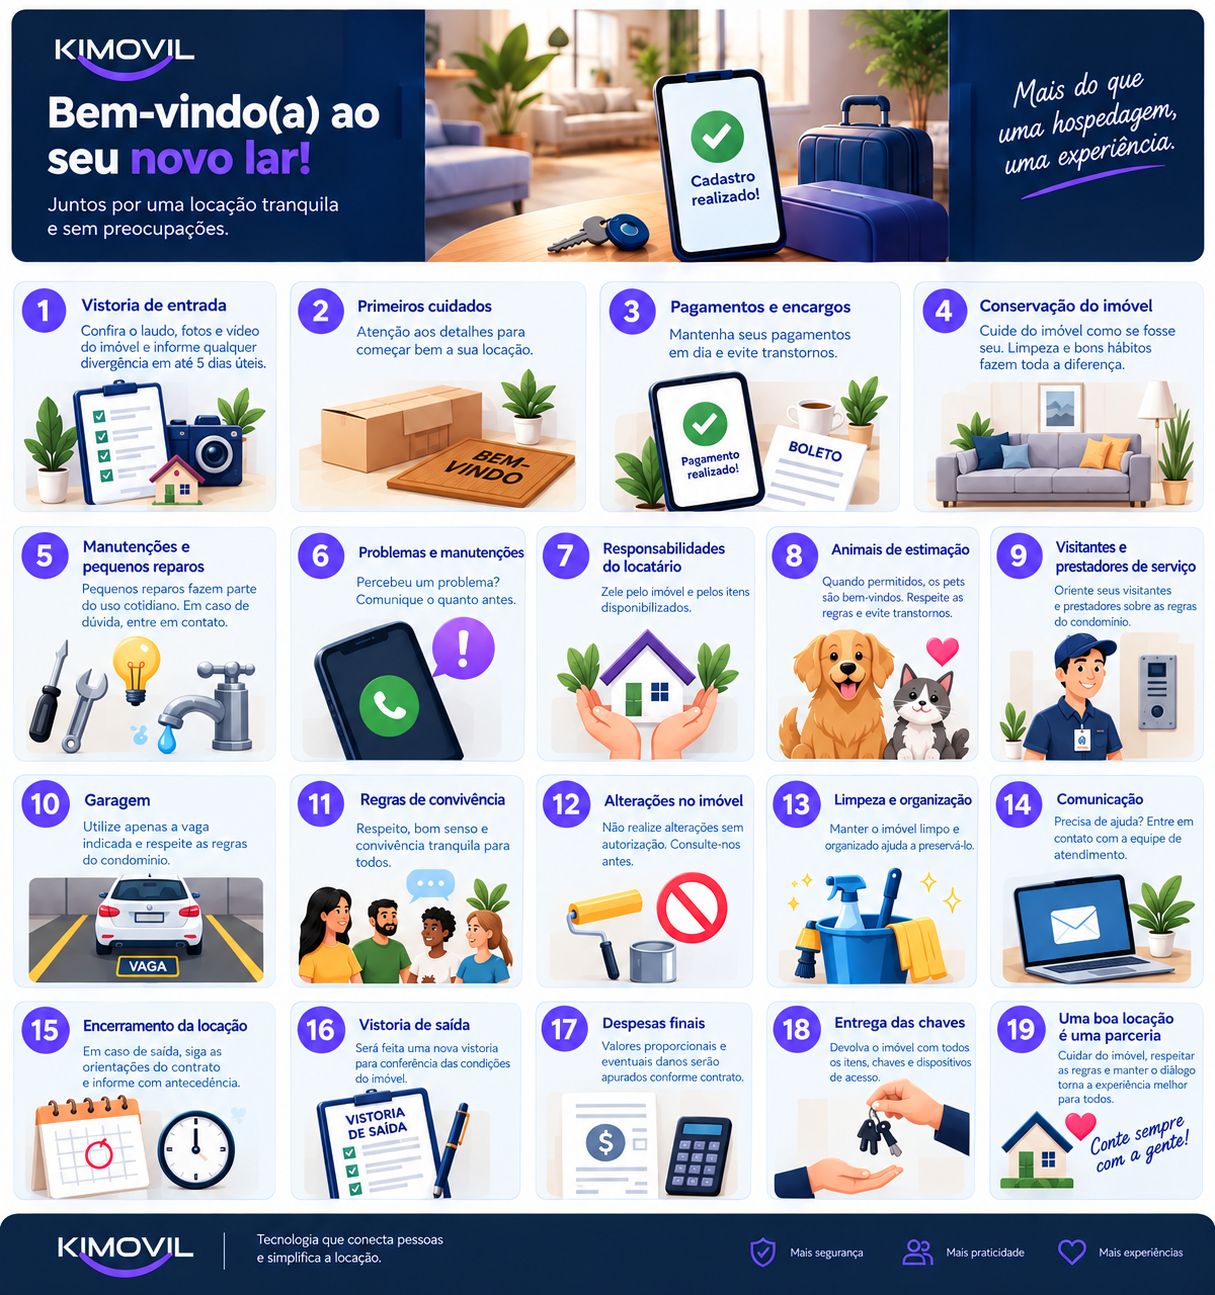
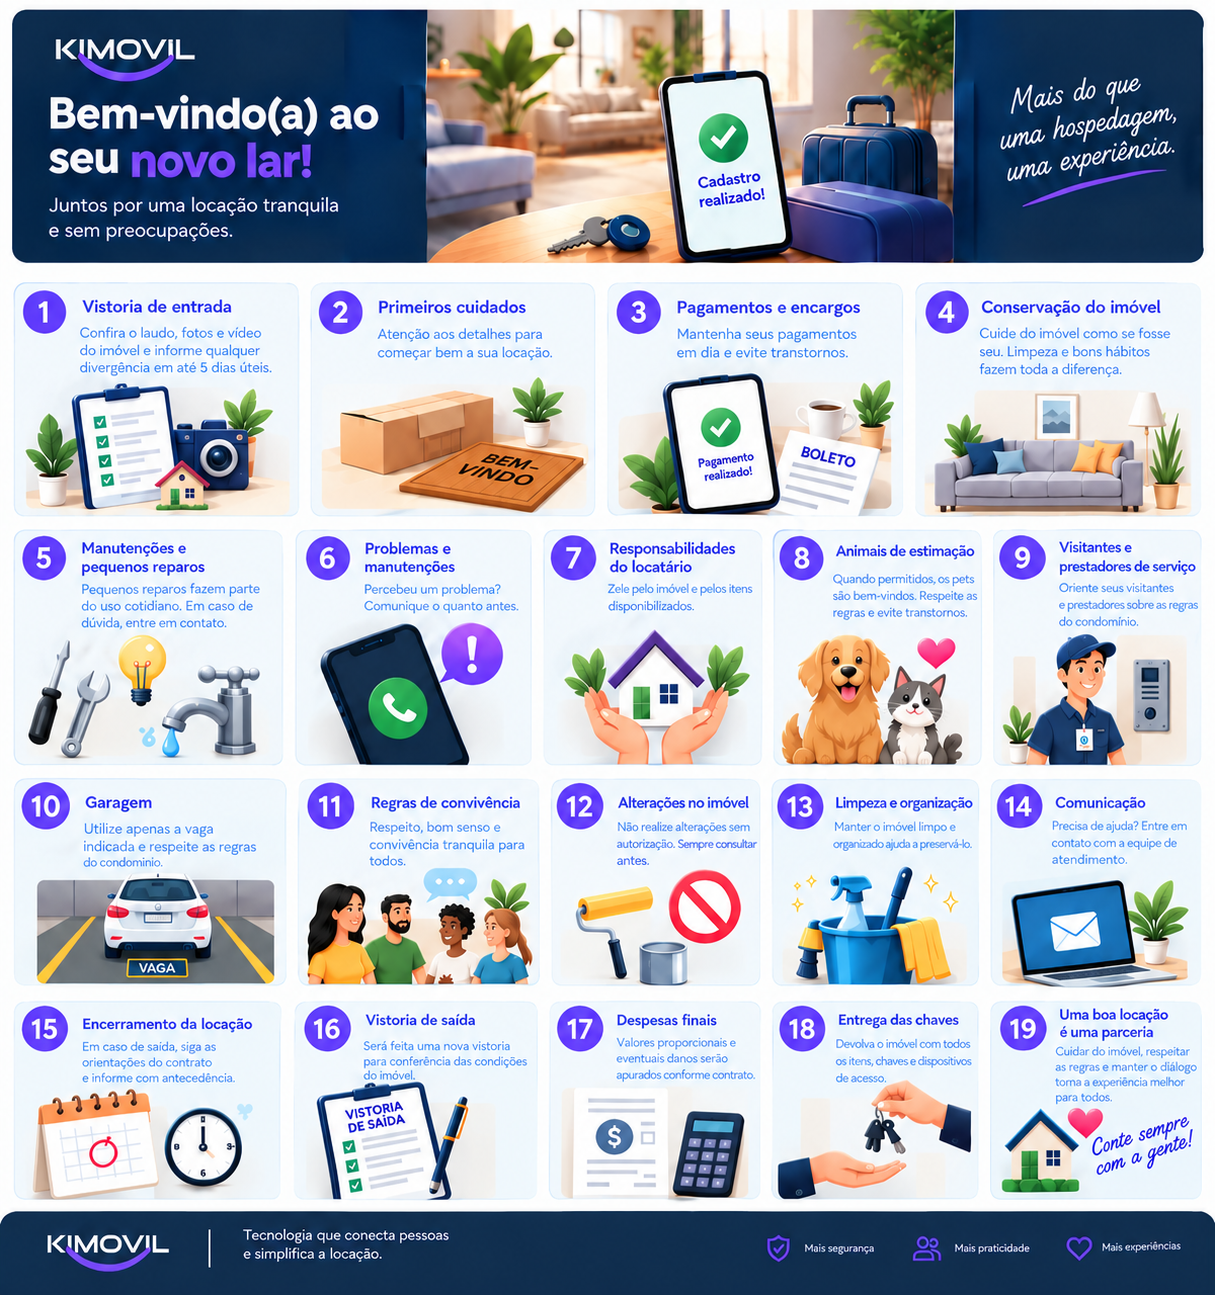
refactor(legal acceptance): remove envio de "aceite" do usuário e troca imagem de boas práticas

Changed region(s): [[0.0, 0.0, 1.0, 0.9884], [0.0305, 0.0309, 0.3045, 0.1853], [0.8222, 0.0618, 0.9745, 0.1544]]

diff --git a/src/contract/api-contract.ts b/src/contract/api-contract.ts
@@ -33,17 +33,6 @@
  *        O backend localiza o responsável pelo token, grava o hóspede vinculado a ele e faz USOS_DISPONIVEIS - 1
  *        (as três coisas na mesma transação). Sem usos restantes: RES false, MSG "Convite expirado".
  *   O convidado preenche os mesmos campos do convidado cadastrado à mão pelo responsável (GuestPayload).
- *
- * ── Aceite do Aviso de Privacidade e dos Termos de Uso (campo `aceite`, ver LegalAcceptance) ──────────────────────
- * Vai no corpo do POST /autocadastro e do POST /convidado. Definição provisória, a fechar com o jurídico:
- *   - Opcional por enquanto (o front ainda não coleta o aceite). Quando coletar, o backend de produção deve recusar
- *     (RES false + MSG) o cadastro sem `aceite`.
- *   - A versão enviada é a que a tela mostrou ao usuário. O backend compara com a vigente e recusa se divergir,
- *     para nunca registrar o aceite de um texto que o usuário não viu.
- *   - Data/hora, IP e user-agent são registrados PELO SERVIDOR (nada disso vem do cliente, que pode mentir).
- *   - O aceite é gravado na mesma transação do cadastro (e do uso do link, no /convidado): ou grava tudo ou nada.
- *   - `declaracoes` diz quem está declarando o quê: "titular" (a própria pessoa), "responsavel_terceiro" (o responsável
- *     cadastrou convidados à mão e declara ter autorização) e "responsavel_legal" (há menor no cadastro).
  */
 
 /* ------------------------------------------------------------------ */
@@ -97,30 +86,6 @@ export interface ApiResponse {
   /** Mensagem para o usuário quando RES = false. */
   MSG?: string;
   INFO?: string;
-}
-
-/* ------------------------------------------------------------------ */
-/* Aceite dos documentos legais                                        */
-/* ------------------------------------------------------------------ */
-
-/** Quem faz cada declaração do aceite. Uma pessoa pode fazer mais de uma (ex.: responsável que cadastra um menor). */
-export const LEGAL_DECLARATIONS = {
-  /** A própria pessoa que se cadastra (responsável, convidado, corretor ou fornecedor). */
-  holder: "titular",
-  /** O responsável cadastrou convidados à mão e declara ter autorização para informar os dados deles. */
-  guestsAuthority: "responsavel_terceiro",
-  /** Pai, mãe ou responsável legal, quando o cadastro inclui um menor. */
-  guardian: "responsavel_legal",
-} as const;
-
-export type LegalDeclaration = (typeof LEGAL_DECLARATIONS)[keyof typeof LEGAL_DECLARATIONS];
-
-export interface LegalAcceptance {
-  /** Versão do Aviso de Privacidade exibida ao usuário no momento do aceite. */
-  aviso_privacidade: { versao: string };
-  /** Versão dos Termos de Uso exibida ao usuário no momento do aceite. */
-  termos_uso: { versao: string };
-  declaracoes: LegalDeclaration[];
 }
 
 /* ------------------------------------------------------------------ */
@@ -238,8 +203,6 @@ export interface SelfRegistrationRequest {
   convidados?: GuestPayload[];
   /** Só Hospede: quantos convidados poderão usar o link de autocadastro (0 a 10; convidados + isto ≤ 10). */
   quantidade_autocadastros?: number;
-  /** Aceite dos documentos legais (opcional por enquanto; ver "Aceite do Aviso de Privacidade" no topo). */
-  aceite?: LegalAcceptance;
 }
 
 export interface SelfRegistrationResponse extends ApiResponse {
@@ -264,8 +227,6 @@ export interface GuestRegistrationRequest {
   convite: { id: string };
   /** Foto obrigatória (KEY_FOTO do POST /foto); demais regras iguais às do convidado cadastrado à mão. */
   convidado: GuestPayload;
-  /** Aceite do próprio convidado (opcional por enquanto; ver "Aceite do Aviso de Privacidade" no topo). */
-  aceite?: LegalAcceptance;
 }
 
 export type GuestRegistrationResponse = ApiResponse;

diff --git a/src/services/guests.ts b/src/services/guests.ts
@@ -1,13 +1,12 @@
 import type { ResultSetHeader, RowDataPacket } from "mysql2/promise";
-import { API_REQUESTS, type GuestPayload, type LegalAcceptance } from "../contract/api-contract.js";
+import { API_REQUESTS, type GuestPayload } from "../contract/api-contract.js";
 import { pool, type Db } from "../db/pool.js";
 import { hashDocument, sha256 } from "../security.js";
 import { seedGuestInviteUses, shouldFailRegistration } from "../test-hooks.js";
 import { formatPhone, isObject, text } from "../validation/common.js";
 import { validateGuestSelfRegistration } from "../validation/guests.js";
-import { recordAcceptance, resolveAcceptance } from "./legal.js";
 import { claimPhotos } from "./photos.js";
-import { fail, ok, type ApiResult, type RequestContext } from "./result.js";
+import { fail, ok, type ApiResult } from "./result.js";
 import { refuse, transactional } from "./transaction.js";
 
 interface GuestInviteRow extends RowDataPacket {
@@ -108,17 +107,14 @@ export async function checkGuestInvitation(token: string, request: string): Prom
   return ok({ TOKEN: token, USOS_DISPONIVEIS: Math.max(invite.total_uses - invite.used_uses, 0) });
 }
 
-/** POST /convidado: grava o convidado, o aceite e desconta um uso, na mesma transação. */
-export async function registerGuest(raw: unknown, ctx: RequestContext): Promise<ApiResult> {
+/** POST /convidado: grava o convidado e desconta um uso, na mesma transação. */
+export async function registerGuest(raw: unknown): Promise<ApiResult> {
   if (!isObject(raw)) return fail("Corpo inválido.", 400);
 
   const token = isObject(raw.convite) ? text(raw.convite.id) : "";
 
   if (raw.request !== API_REQUESTS.guestRegistration) return fail("Requisição inválida.");
   if (!token) return fail("Convite não informado.", 400);
-
-  const acceptance = await resolveAcceptance(raw.aceite as LegalAcceptance | null | undefined);
-  if (acceptance && "error" in acceptance) return fail(acceptance.error);
 
   return transactional(async (conn) => {
     // A trava na linha do link faz dois convidados disputando o último uso serem atendidos um de cada vez.
@@ -147,12 +143,8 @@ export async function registerGuest(raw: unknown, ctx: RequestContext): Promise<
       if (duplicates.length > 0) refuse("Este documento já está cadastrado neste convite.");
     }
 
-    const guestId = await insertGuest(conn, owner, "autocadastro", guest);
+    await insertGuest(conn, owner, "autocadastro", guest);
     await conn.query("UPDATE guest_invites SET used_uses = used_uses + 1 WHERE id = ?", [invite.id]);
-
-    if (acceptance) {
-      await recordAcceptance(conn, acceptance, ctx, { invitationId: owner.invitationId, guestId, context: "convidado" });
-    }
 
     return ok({ MSG: "Cadastro realizado com sucesso." });
   });

diff --git a/src/services/registrations.ts b/src/services/registrations.ts
@@ -10,10 +10,9 @@ import { isObject, text } from "../validation/common.js";
 import { validateSelfRegistration } from "../validation/self-registration.js";
 import { insertGuest, type GuestOwner } from "./guests.js";
 import { ensureInvitation } from "./invitations.js";
-import { recordAcceptance, resolveAcceptance } from "./legal.js";
 import { sendGoodPracticesEmail } from "./mailer.js";
 import { claimPhotos, storagePath } from "./photos.js";
-import { fail, ok, type ApiResult, type RequestContext } from "./result.js";
+import { fail, ok, type ApiResult } from "./result.js";
 import { refuse, transactional } from "./transaction.js";
 
 interface ExistingRegistration extends RowDataPacket {
@@ -70,12 +69,12 @@ function keepStoredDocument(request: SelfRegistrationRequest, stored: unknown): 
 }
 
 /**
- * POST /autocadastro: grava cadastro, convidados, link de autocadastro e aceite numa transação só.
+ * POST /autocadastro: grava cadastro, convidados e link de autocadastro numa transação só.
  * O convite principal é de uso contínuo: continua válido depois do cadastro (até ser expirado, ver `pnpm invite:expire`)
  * e várias pessoas se cadastram pelo mesmo token. Se o documento do responsável já está cadastrado (em qualquer
  * convite), o cadastro existente é atualizado com este envio, inclusive as fotos; o documento permanece o mesmo.
  */
-export async function selfRegister(raw: unknown, ctx: RequestContext): Promise<ApiResult> {
+export async function selfRegister(raw: unknown): Promise<ApiResult> {
   const token = isObject(raw) && isObject(raw.convite) ? text(raw.convite.id) : "";
 
   if (!token) return fail("Convite não informado.", 400);
@@ -85,9 +84,6 @@ export async function selfRegister(raw: unknown, ctx: RequestContext): Promise<A
   if ("error" in validated) return fail(validated.error);
 
   const { category, photoIds, request } = validated;
-
-  const acceptance = await resolveAcceptance(request.aceite);
-  if (acceptance && "error" in acceptance) return fail(acceptance.error);
 
   // Convidados e link de autocadastro só existem para o hóspede.
   const isGuest = category === "Hospede";
@@ -149,10 +145,6 @@ export async function selfRegister(raw: unknown, ctx: RequestContext): Promise<A
         owner.registrationId,
         selfSlots,
       ]);
-    }
-
-    if (acceptance) {
-      await recordAcceptance(conn, acceptance, ctx, { invitationId: owner.invitationId, guestId: null, context: "autocadastro" });
     }
 
     return ok({

diff --git a/src/routes/http.ts b/src/routes/http.ts
@@ -1,6 +1,6 @@
-import type { Request, Response } from "express";
+import type { Response } from "express";
 import { rateLimit } from "express-rate-limit";
-import type { ApiResult, RequestContext } from "../services/result.js";
+import type { ApiResult } from "../services/result.js";
 import { isObject, text } from "../validation/common.js";
 
 /** Limite mais baixo nas consultas por token, contra enumeração de tokens. */
@@ -10,10 +10,5 @@ export const queryText = (value: unknown) => (typeof value === "string" ? value.
 
 /** Token do convite no corpo (`convite.id`), só para os hooks de teste. */
 export const bodyToken = (body: unknown) => (isObject(body) && isObject(body.convite) ? text(body.convite.id) : "");
-
-export const requestContext = (req: Request): RequestContext => ({
-  ip: req.ip ?? "desconhecido",
-  userAgent: req.get("user-agent")?.slice(0, 255) ?? null,
-});
 
 export const send = (res: Response, result: ApiResult) => res.status(result.status).json(result.body);

diff --git a/src/routes/convidado.ts b/src/routes/convidado.ts
@@ -1,7 +1,7 @@
 import { Router } from "express";
 import { checkGuestInvitation, registerGuest } from "../services/guests.js";
 import { delay } from "../test-hooks.js";
-import { bodyToken, lookupLimiter, queryText, requestContext, send } from "./http.js";
+import { bodyToken, lookupLimiter, queryText, send } from "./http.js";
 
 export const convidadoRouter: Router = Router();
 
@@ -14,5 +14,5 @@ convidadoRouter.get("/", lookupLimiter(), async (req, res) => {
 
 convidadoRouter.post("/", async (req, res) => {
   await delay(bodyToken(req.body));
-  send(res, await registerGuest(req.body, requestContext(req)));
+  send(res, await registerGuest(req.body));
 });

diff --git a/src/routes/autocadastro.ts b/src/routes/autocadastro.ts
@@ -1,11 +1,11 @@
 import { Router } from "express";
 import { selfRegister } from "../services/registrations.js";
 import { delay } from "../test-hooks.js";
-import { bodyToken, requestContext, send } from "./http.js";
+import { bodyToken, send } from "./http.js";
 
 export const autocadastroRouter: Router = Router();
 
 autocadastroRouter.post("/", async (req, res) => {
   await delay(bodyToken(req.body));
-  send(res, await selfRegister(req.body, requestContext(req)));
+  send(res, await selfRegister(req.body));
 });

diff --git a/src/services/result.ts b/src/services/result.ts
@@ -4,12 +4,6 @@ export interface ApiResult {
   body: Record<string, unknown>;
 }
 
-/** Quem está fazendo a requisição. IP e user agent vêm sempre do servidor, nunca do corpo. */
-export interface RequestContext {
-  ip: string;
-  userAgent: string | null;
-}
-
 export const ok = (extra: Record<string, unknown> = {}): ApiResult => ({ status: 200, body: { RES: true, ...extra } });
 
 export const fail = (MSG: string, status = 200): ApiResult => ({ status, body: { RES: false, MSG } });

diff --git a/src/services/test-state.ts b/src/services/test-state.ts
@@ -40,7 +40,7 @@ export async function resetState() {
 
   await withTransaction(async (conn) => {
     // ordem das chaves estrangeiras: dependentes primeiro
-    for (const table of ["legal_acceptances", "guests", "photos", "guest_invites", "registrations", "invitations"]) {
+    for (const table of ["guests", "photos", "guest_invites", "registrations", "invitations"]) {
       await conn.query(`DELETE FROM ${table}`);
     }
   });

diff --git a/src/server.ts b/src/server.ts
@@ -13,7 +13,7 @@ import { stateRouter } from "./routes/state.js";
 const app = express();
 
 app.disable("x-powered-by");
-app.set("trust proxy", false);
+app.set("trust proxy", "loopback");
 app.use(helmet());
 app.use(
   cors({
